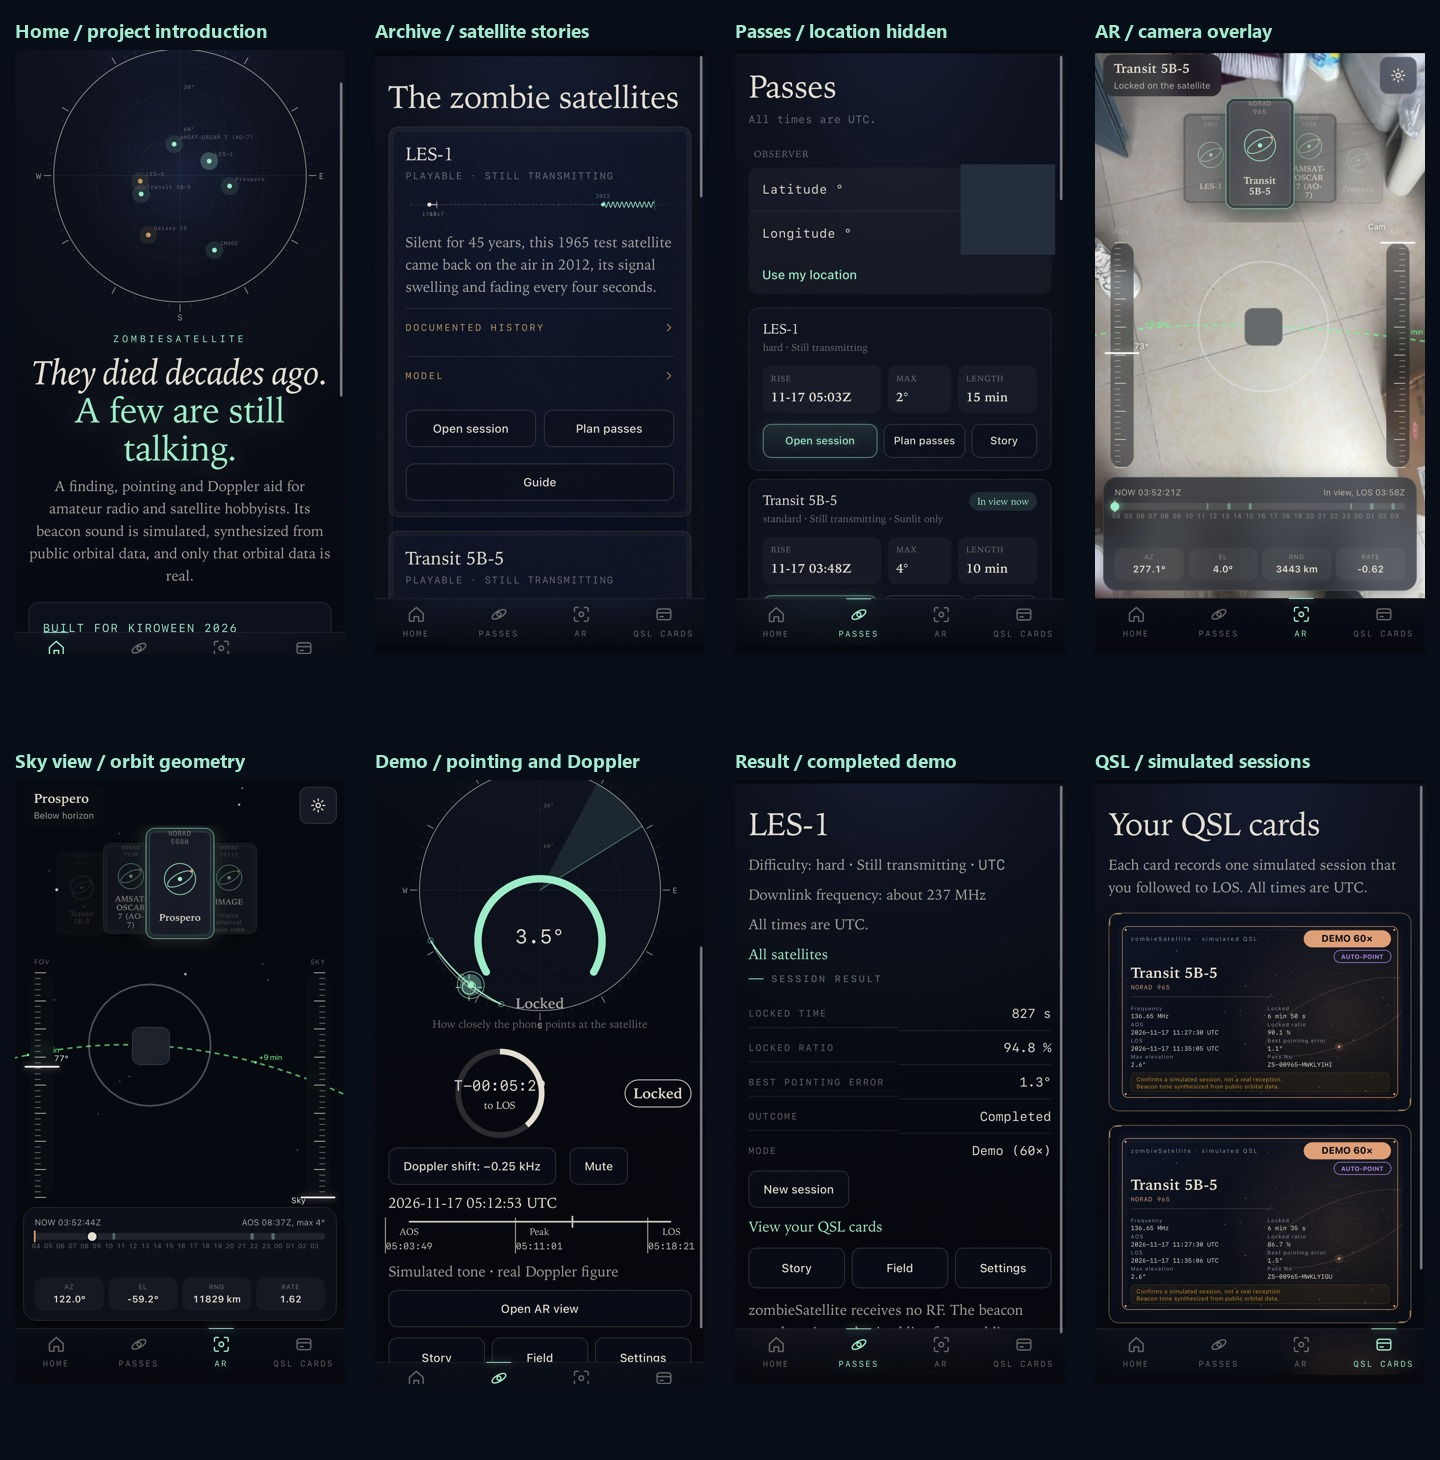
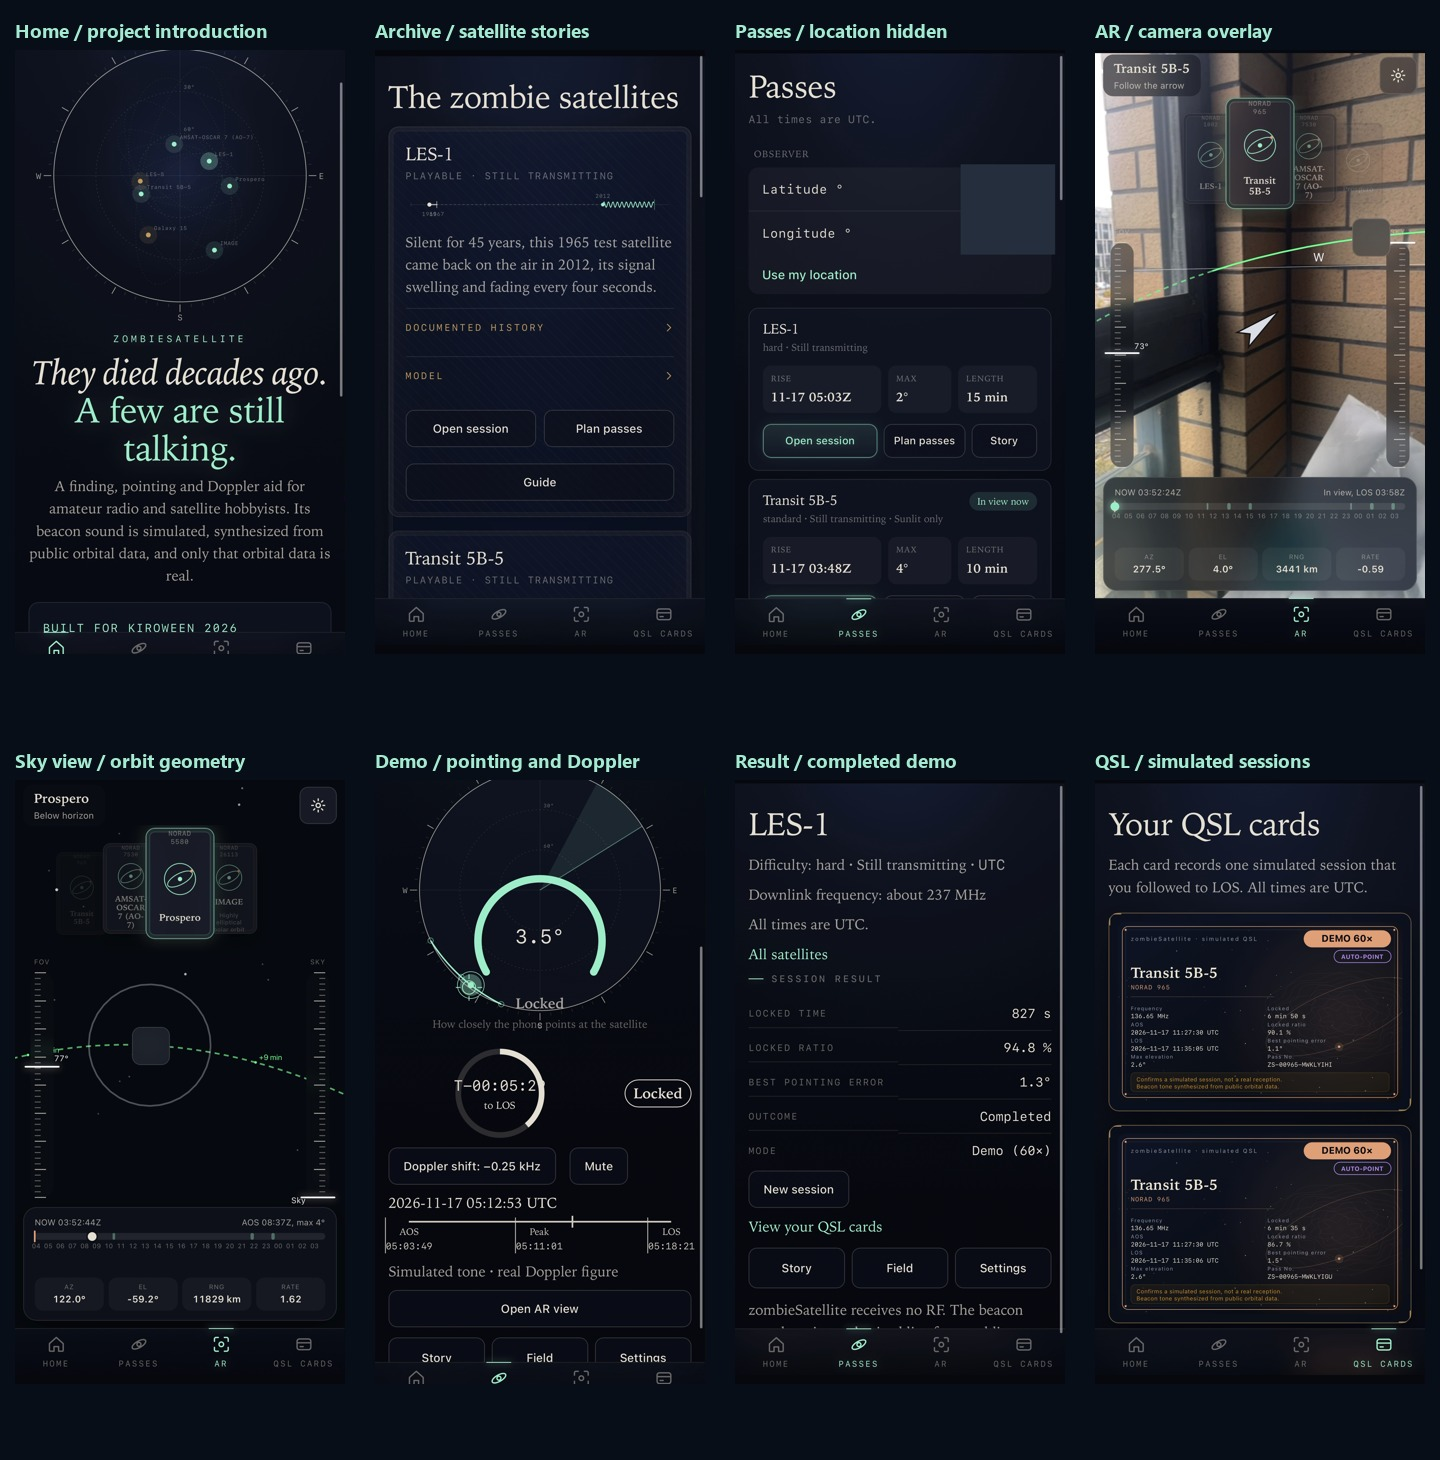
Refresh screenshot overview and avoid rewriting unchanged open images

Changed region(s): [[0.75, 0.0308, 1.0, 0.4315]]

diff --git a/docs/screenshots/export_screenshots.py b/docs/screenshots/export_screenshots.py
@@ -18,6 +18,8 @@ SHOTS=[
 
 def main():
     records=[]
+    manifest=HERE/'screenshots.json'
+    previous={r['file']:r for r in json.loads(manifest.read_text(encoding='utf-8'))} if manifest.exists() else {}
     for name,t,title,description in SHOTS:
         filters=[]
         if 'redacted' in name:
@@ -25,14 +27,19 @@ def main():
             filters.append('drawbox=x=800:y=535:w=335:h=320:color=0x192534:t=fill')
         filters.append('crop=1170:2140:0:130')
         target=HERE/(name+'.png')
-        subprocess.run(['ffmpeg','-y','-hide_banner','-loglevel','error','-ss',str(t),'-i',str(SOURCE),'-frames:v','1','-vf',','.join(filters),str(target)],check=True)
+        # Leave unchanged screenshots alone, including files open in image viewers.
+        if not target.exists() or previous.get(target.name,{}).get('source_seconds')!=t:
+            temp=HERE/(name+'.pending.png')
+            subprocess.run(['ffmpeg','-y','-hide_banner','-loglevel','error','-ss',str(t),'-i',str(SOURCE),'-frames:v','1','-vf',','.join(filters),str(temp)],check=True)
+            temp.replace(target)
         records.append(dict(file=target.name,source='docs/ScreenRecording.mp4',source_seconds=t,title=title,description=description,dimensions=[1170,2140],changes=['Crop phone status bar and browser toolbar']+(['Opaque mask over observer coordinates'] if 'redacted' in name else [])))
     (HERE/'screenshots.json').write_text(json.dumps(records,indent=2),encoding='utf-8')
     # Contact sheet is a navigation aid, not a fabricated app screenshot.
     sheet=Image.new('RGB',(1440,1460),'#080e18');d=ImageDraw.Draw(sheet)
     f=ImageFont.truetype('C:/Windows/Fonts/segoeuib.ttf',19)
     for i,(name,_,title,_) in enumerate(SHOTS):
-        im=Image.open(HERE/(name+'.png')).convert('RGB');im.thumbnail((330,650))
+        with Image.open(HERE/(name+'.png')) as source:im=source.convert('RGB')
+        im.thumbnail((330,650))
         x=15+(i%4)*360;y=50+(i//4)*730
         sheet.paste(im,(x,y));d.text((x,y-33),title,font=f,fill='#a4ebd1')
     sheet.save(HERE/'overview.jpg',quality=92)
